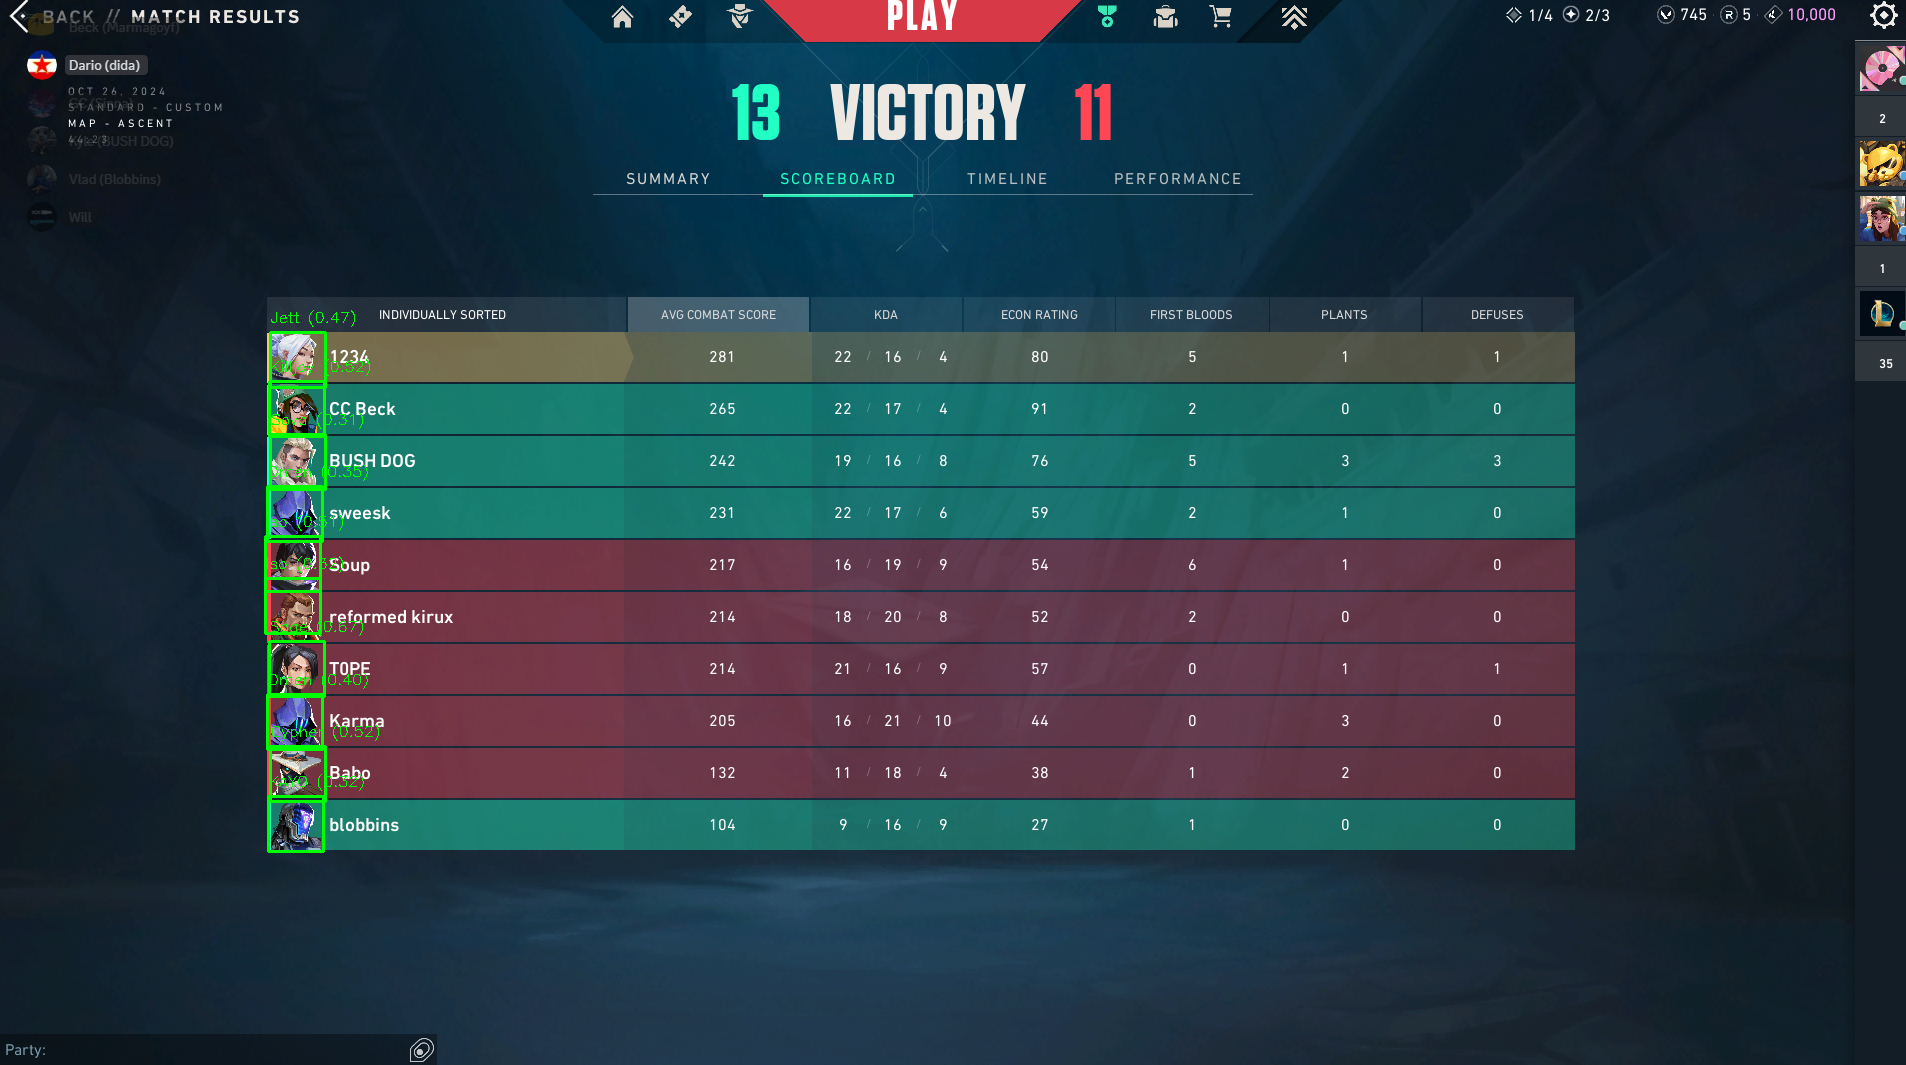
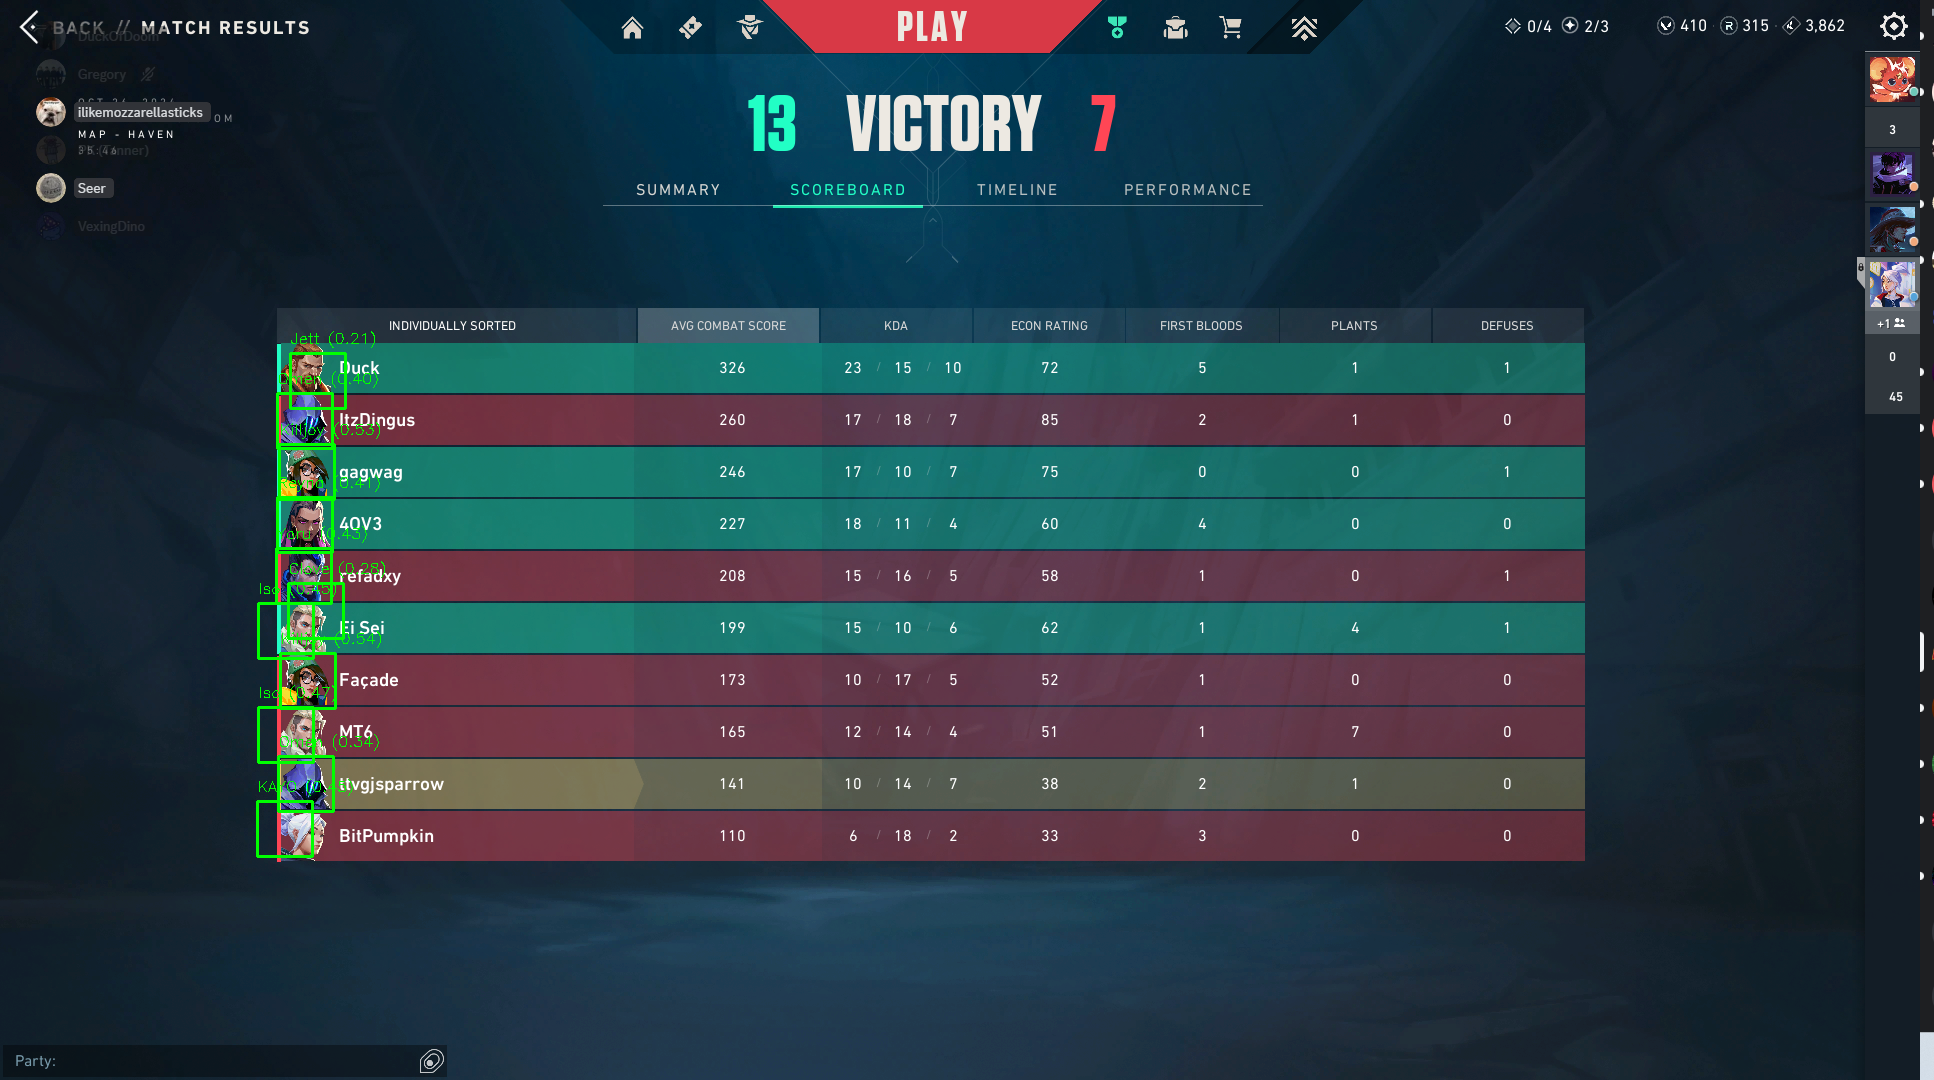
Polished IconMatch.py

diff --git a/IconMatch.py b/IconMatch.py
@@ -2,37 +2,52 @@ import cv2 as cv
 import numpy as np
 
 #Load screenshot
-img_rgb = cv.imread('Valorant/Val_Scoreboard.png')
+img_rgb = cv.imread('Valorant/Scoreboards/3.png')
 img_gray = cv.cvtColor(img_rgb, cv.COLOR_BGR2GRAY)
 
 #Define the region of interest (ROI)
-x, y, w, h = 265, 332, 60, 530  # Adjust these values as needed
+x, y, w, h = 255, 332, 90, 530
 roi_gray = img_gray[y:y+h, x:x+w]
 roi_rgb = img_rgb[y:y+h, x:x+w]
 
 #List of agent names
 agents = ["Astra", "Breach", "Brimstone", "Chamber",
           "Clove", "Cypher", "Deadlock", "Fade", "Gekko", "Harbor", "Iso", 
-          "Jett", "KAYO", "Killjoy", "Neon", "Omen", "Phoenix", "Raze", 
+          "Jett", "Killjoy", "KAYO", "Neon", "Omen", "Phoenix", "Raze", 
           "Reyna", "Sage", "Skye", "Sova", "Tejo", "Viper", "Vyse", "Yoru"]
 
+#Store detections
 detections = []
+
+#Preprocess ROI
+roi_gray = cv.GaussianBlur(roi_gray, (5, 5), 0)
+roi_gray = cv.Canny(roi_gray, 50, 150)
 
 #Perform template matching for each agent
 for agent in agents:
     template = cv.imread(f'Valorant/ValAgents/{agent}.png', cv.IMREAD_GRAYSCALE)
-    #Perform template matching using CCOEFF_NORMED
-    res = cv.matchTemplate(roi_gray, template, cv.TM_CCOEFF_NORMED)
-    threshold = 0.3
-    loc = np.where(res >= threshold)
-    for pt in zip(*loc[::-1]):
-        score = res[pt[1], pt[0]]
-        detections.append((score, agent, (pt[0] + x, pt[1] + y), template.shape[::-1]))
+    if template is None:
+        print(f"Template for {agent} not found.")
+        continue
+    #Apply same filters to templates
+    template = cv.GaussianBlur(template, (5, 5), 0)
+    template = cv.Canny(template, 50, 150)
+    
+    for scale in np.linspace(0.5, 1.5, 10):
+        resized_template = cv.resize(template, (0, 0), fx=scale, fy=scale)
+        if roi_gray.shape[0] < resized_template.shape[0] or roi_gray.shape[1] < resized_template.shape[1]:
+            continue
+        res = cv.matchTemplate(roi_gray, resized_template, cv.TM_CCOEFF_NORMED)
+        threshold = 0.2
+        loc = np.where(res >= threshold)
+        for pt in zip(*loc[::-1]):
+            score = res[pt[1], pt[0]]
+            detections.append((score, agent, (pt[0] + x, pt[1] + y), resized_template.shape[::-1]))
 
-#Sort detections by confidence
+#Sort detections by score
 detections = sorted(detections, key=lambda x: x[0], reverse=True)
 
-#Apply non-maximum suppression to avoid overlapping
+#Apply non-maximum suppression to filter out overlapping detections
 def non_max_suppression(detections, overlap_thresh=0.3):
     if len(detections) == 0:
         return []
@@ -68,7 +83,7 @@ def non_max_suppression(detections, overlap_thresh=0.3):
 
 filtered_detections = non_max_suppression(detections)
 
-#Limit to a maximum of 2 duplicates per agent
+#Limit of 2 duplicates per agent
 agent_counts = {}
 final_detections = []
 for detection in filtered_detections:
@@ -79,8 +94,21 @@ for detection in filtered_detections:
         final_detections.append(detection)
         agent_counts[agent] += 1
 
-#Put a rectangle around best matches
+#Ensure no less than 10 detections
+if len(final_detections) < 10:
+    remaining_detections = [d for d in detections if d not in final_detections]
+    remaining_detections = sorted(remaining_detections, key=lambda x: x[0], reverse=True)
+    for detection in remaining_detections:
+        _, agent, _, _ = detection
+        if agent_counts.get(agent, 0) < 2:
+            final_detections.append(detection)
+            agent_counts[agent] = agent_counts.get(agent, 0) + 1
+        if len(final_detections) == 10:
+            break
+
+#Draw the top 10 matches' rectangles
 img_result = img_rgb.copy()
+final_detections = final_detections[:10]
 for score, agent, top_left, (w, h) in final_detections:
     bottom_right = (top_left[0] + w, top_left[1] + h)
     cv.rectangle(img_result, top_left, bottom_right, (0, 255, 0), 2)
@@ -91,7 +119,7 @@ for score, agent, top_left, (w, h) in final_detections:
 output_path = 'Valorant/ValMatch/scoreboard_result.png'
 cv.imwrite(output_path, img_result)
 
-#Print the results, including the location of each agent
+#Print results
 print("Top detections:")
 for i, (score, agent, top_left, _) in enumerate(final_detections, 1):
     print(f"{i}. Agent: {agent}, Score: {score:.2f}, Location: {top_left}")
